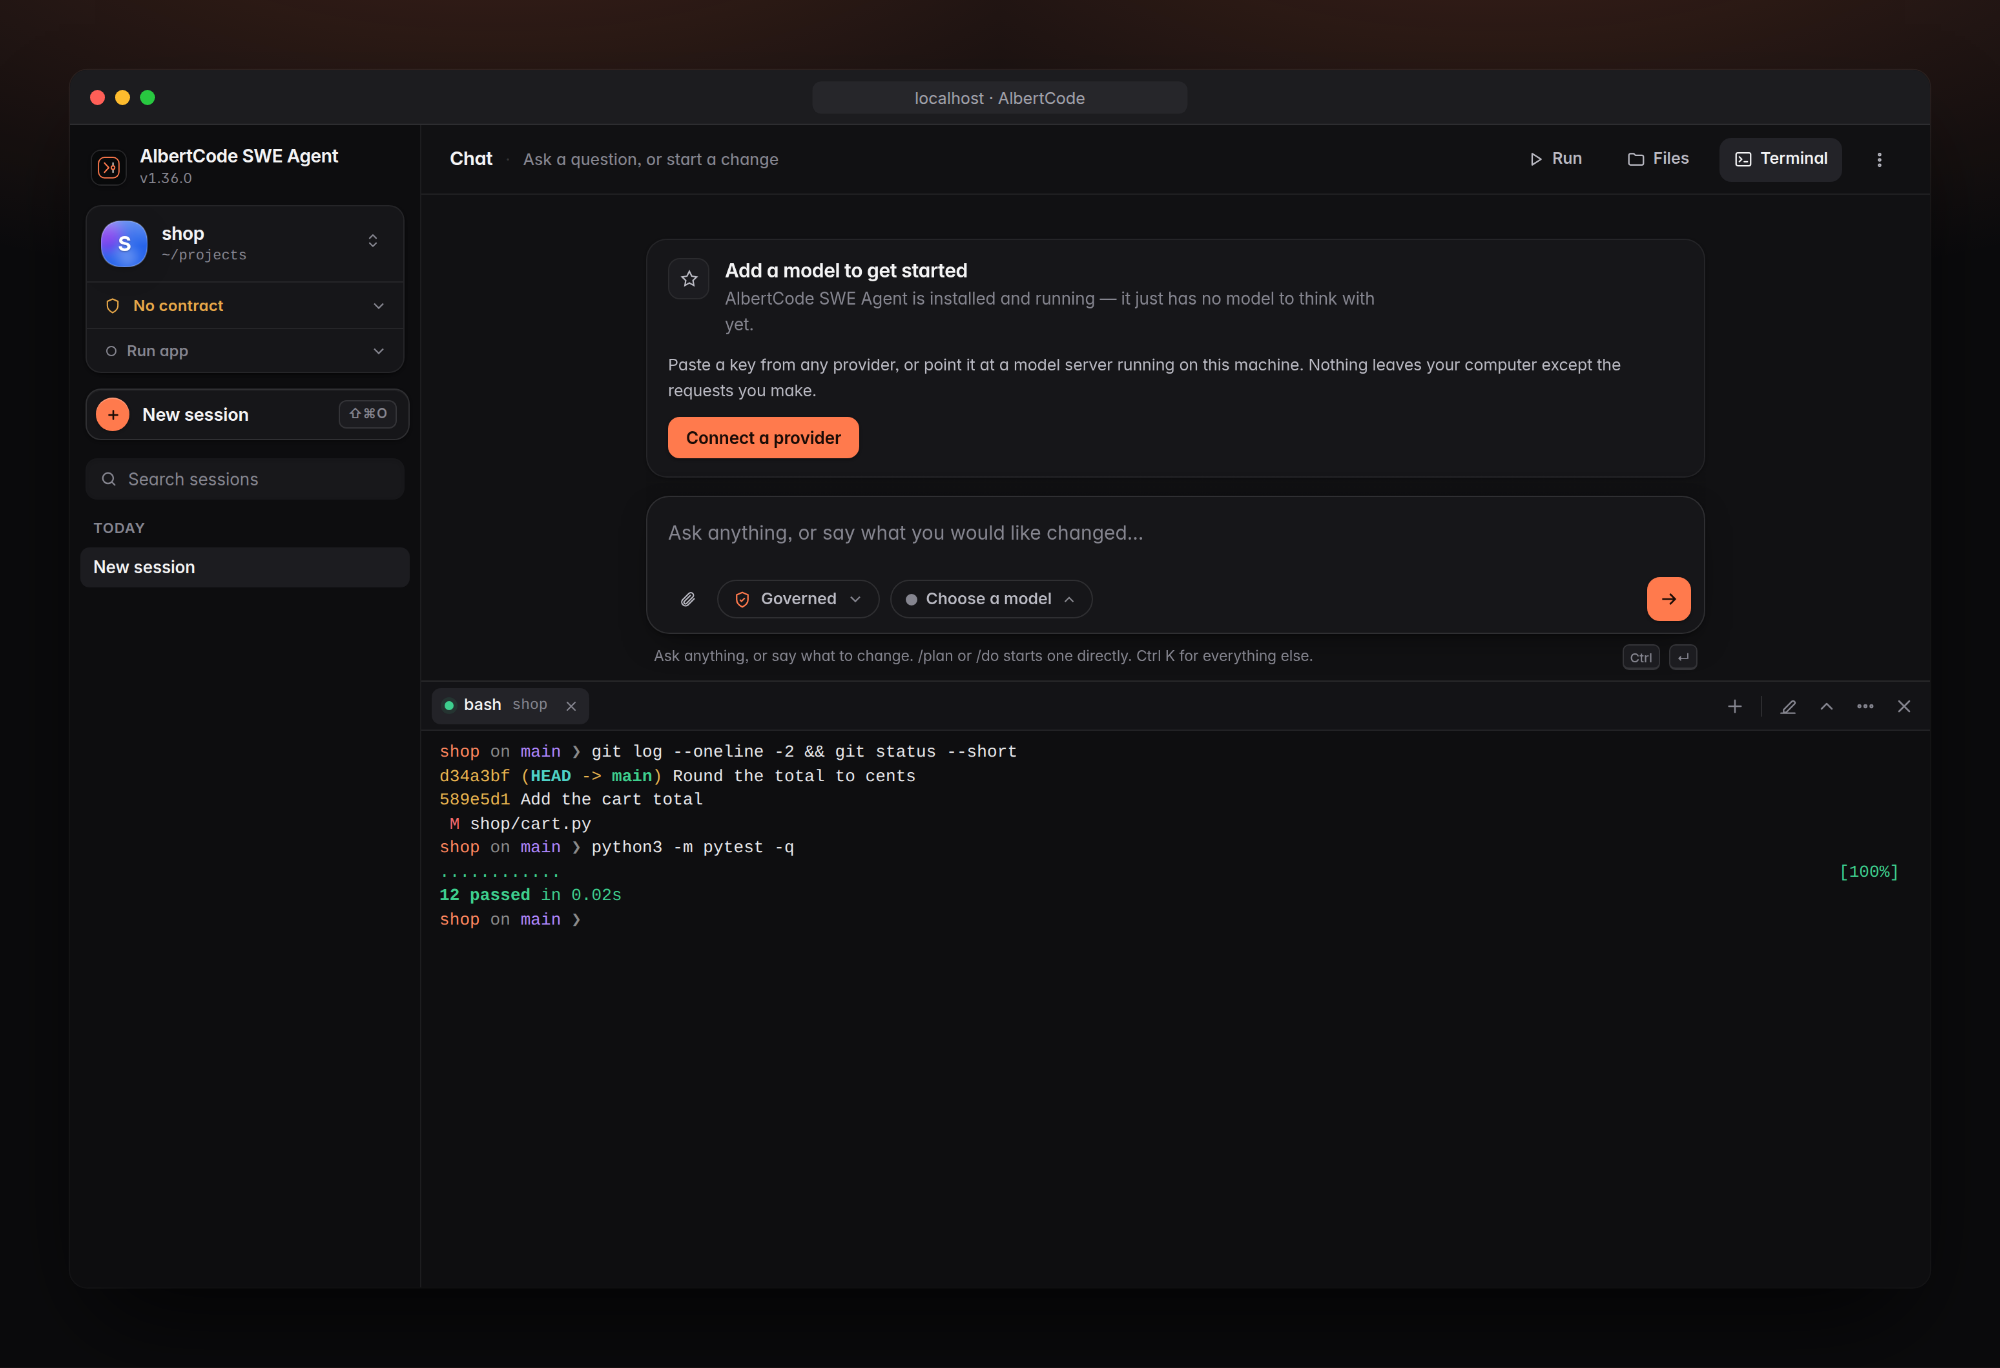
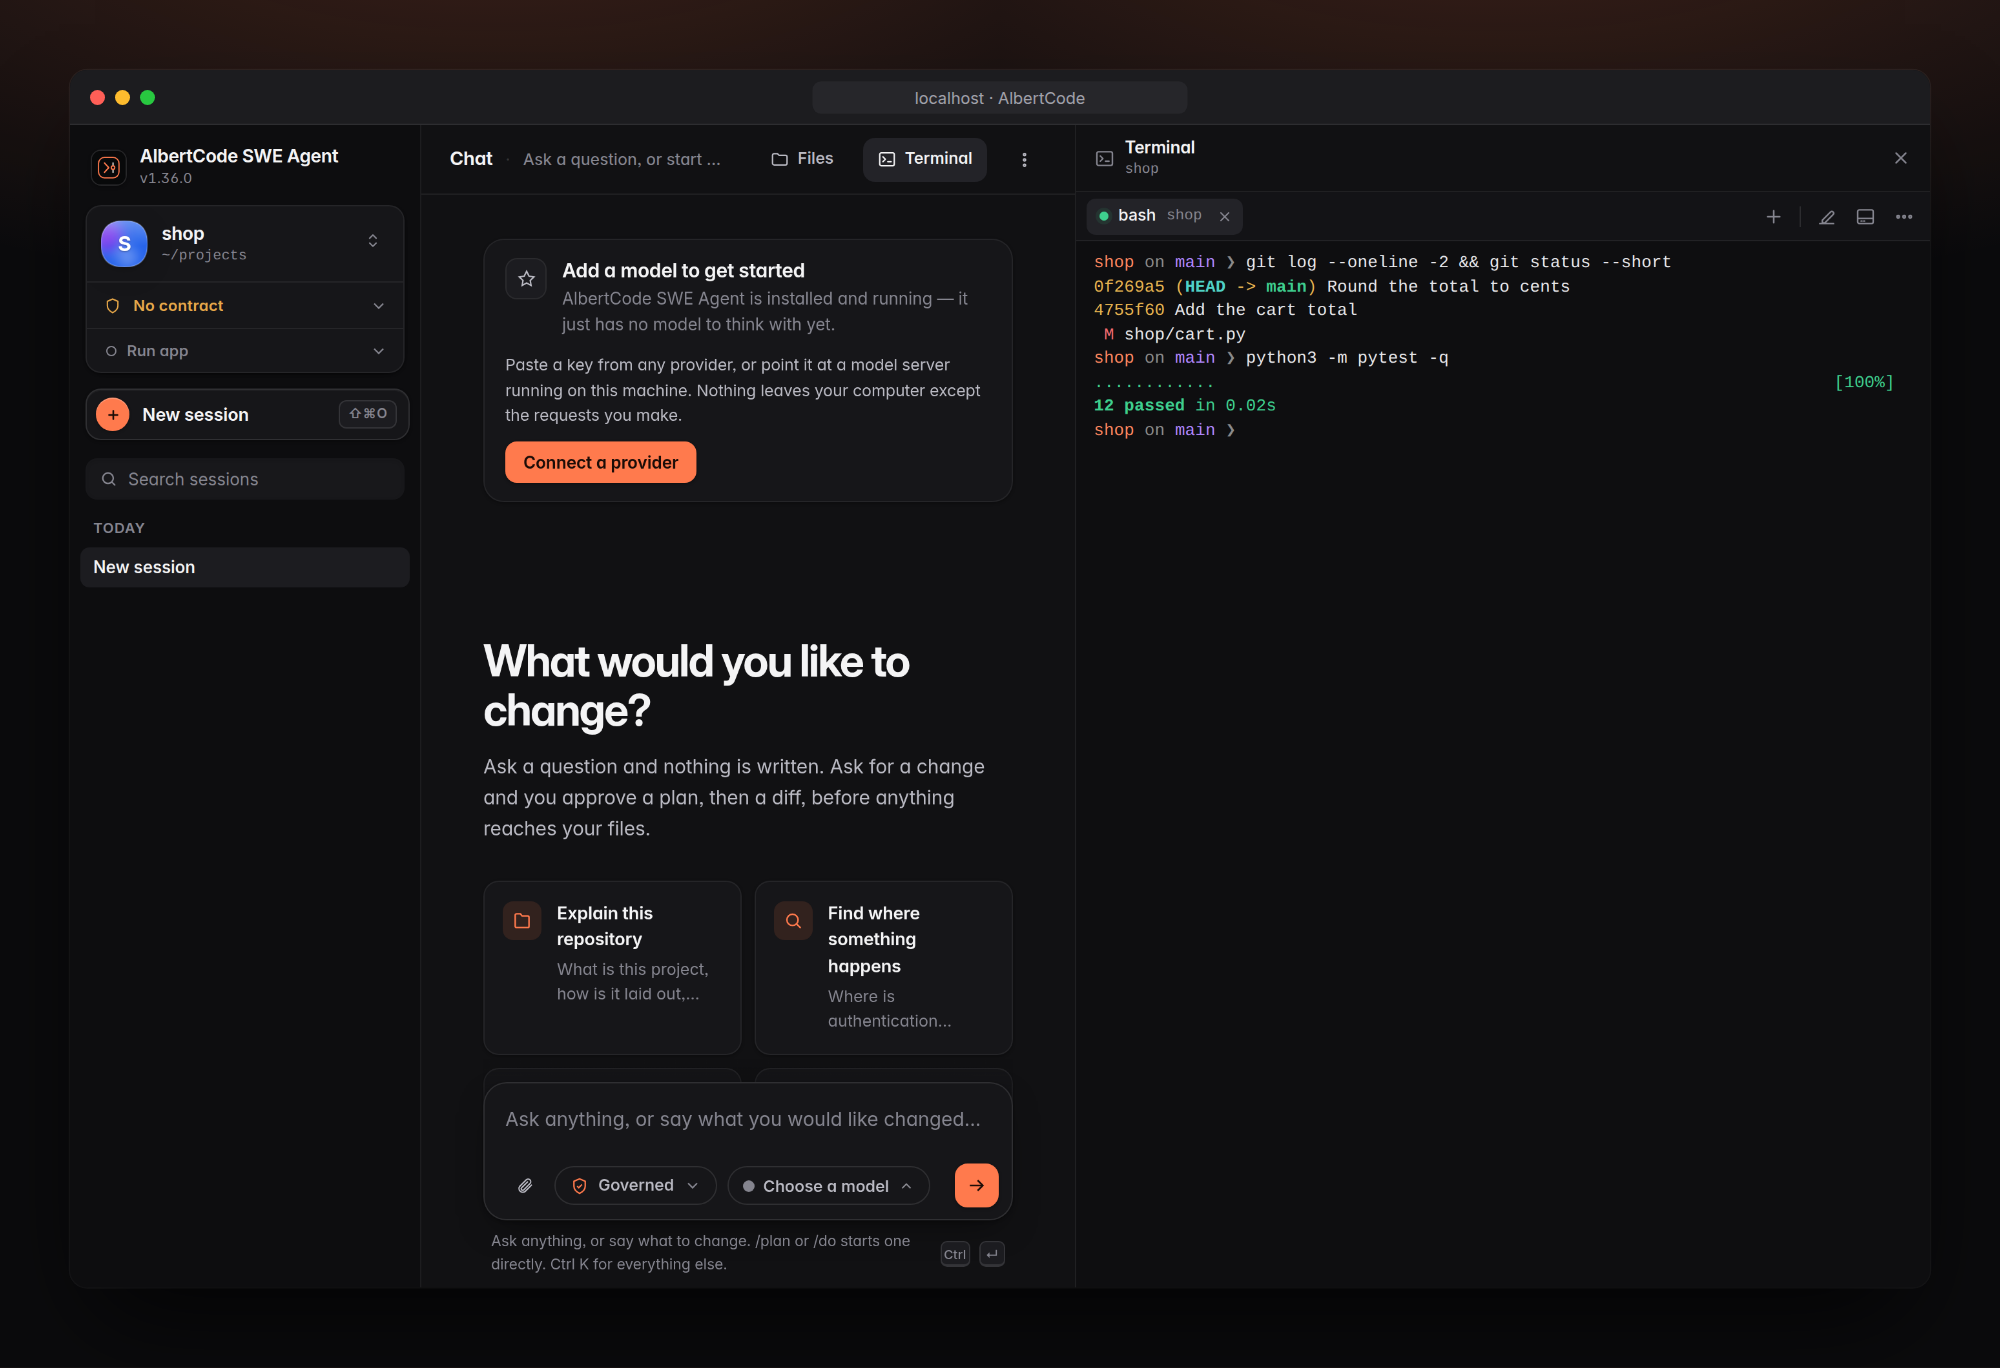
1.37.0: the terminal beside the chat or under it

diff --git a/README.md b/README.md
@@ -104,7 +104,7 @@ editing. It takes a minute or two.
 > When it finishes, **open a new terminal**, then check it:
 >
 > ```bash
-> albertcode --version     # AlbertCode SWE Agent 1.36.0
+> albertcode --version     # AlbertCode SWE Agent 1.37.0
 > albertcode doctor        # which build tools AlbertCode can find
 > ```
 
@@ -498,16 +498,17 @@ something to the Trash, from the toolbar, the ⋯ menu on each row, a right-clic
 
 ### Terminal
 
-**Terminal** in the top bar (or <kbd>Ctrl</kbd> <kbd>`</kbd>) opens a real shell under the chat:
-zsh or bash on macOS and Linux, PowerShell on Windows, in the open repository. Open more as tabs,
-drag the edge to resize, maximise it, or hide it; your shells keep running, even across a page
-reload. Colours, clickable links, full-screen programs, and copy and paste all work as in your own
-terminal, in light and dark.
+**Terminal** in the top bar (or <kbd>Ctrl</kbd> <kbd>`</kbd>) opens a real shell beside the chat,
+like Files: zsh or bash on macOS and Linux, PowerShell on Windows, in the open repository. The
+button in its header docks it under the chat instead, and back; AlbertCode remembers where you
+like it. Open more as tabs, and hide or move it whenever you like: your shells keep running, even
+across a page reload. Colours, clickable links, full-screen programs, and copy and paste all work
+as in your own terminal, in light and dark. Run your project's tests and other checks here.
 
 <picture>
   <source media="(prefers-color-scheme: dark)" srcset="assets/readme/screen-shell-dark.png">
   <source media="(prefers-color-scheme: light)" srcset="assets/readme/screen-shell-light.png">
-  <img src="assets/readme/screen-shell-light.png" alt="The terminal docked under the chat: a bash tab in the shop repository showing git log, git status and a test run with 12 passed." width="100%">
+  <img src="assets/readme/screen-shell-light.png" alt="The terminal beside the chat: a bash tab in the shop repository showing git log, git status and a test run with 12 passed." width="100%">
 </picture>
 
 | Shortcut | What it does |
@@ -523,22 +524,6 @@ terminal, in light and dark.
 > AlbertCode page can connect to it, and a shared AlbertCode server never offers it. Opening and
 > closing a shell are recorded in the evidence ledger; what you type is not. Turn it off at any
 > time from the panel's ⋯ menu.
-
-### Run panel
-
-**Run** in the top bar lists the checks your project already has (tests, type checks, lint,
-build) and runs the one you choose, with its output beside the chat. **Open in Terminal** opens a
-terminal in the repository (your own terminal app while the terminal above is off).
-
-<picture>
-  <source media="(prefers-color-scheme: dark)" srcset="assets/readme/screen-run-dark.png">
-  <source media="(prefers-color-scheme: light)" srcset="assets/readme/screen-run-light.png">
-  <img src="assets/readme/screen-run-light.png" alt="The Run panel beside the chat: the project's test command with a Run button, and its output below, showing 2 passed." width="100%">
-</picture>
-
-> [!NOTE]
-> Only the project's own checks can be run there, and each one follows the same rules as the
-> agent's commands. A check your repository's rules do not allow says so and is not run.
 
 <br>
 

diff --git a/docs/usage.md b/docs/usage.md
@@ -42,16 +42,19 @@ ledger.
 
 ## Terminal
 
-In the browser interface, **Terminal** in the top bar (or Ctrl+`) opens a real shell docked under
-the chat, in the open repository: zsh or bash on macOS and Linux, PowerShell on Windows.
+In the browser interface, **Terminal** in the top bar (or Ctrl+`) opens a real shell in the open
+repository: zsh or bash on macOS and Linux, PowerShell on Windows. It opens beside the chat, in the
+side panel like Files; the button in its header docks it under the chat instead, and back, and
+AlbertCode remembers where you put it. Run your project's tests, builds and other checks here.
 
 - **Tabs.** **+** (or Ctrl+Shift+`) opens another; **Terminal** in the Files panel opens one in the
   selected folder. Close a tab with its ×, a middle-click, or Delete when the tab is focused.
-- **Size.** Drag the panel's top edge, or double-click it (or use the arrow button) to maximise.
+- **Size.** Beside the chat, drag the side panel's edge. Under the chat, drag the panel's top edge,
+  or double-click it (or use the arrow button) to maximise.
 - **Copy and paste.** Select to copy with Ctrl+C (Ctrl+C with nothing selected interrupts, as
   usual), or Ctrl+Shift+C and Ctrl+Shift+V. On a Mac, ⌘C and ⌘V.
-- **It keeps running.** Hide the panel, or reload the page: each shell carries on and comes back
-  with what it wrote. A shell that has ended says so; press Enter to start a new one.
+- **It keeps running.** Hide it, move it, open a file in the side panel, or reload the page: each
+  shell carries on and comes back with what it wrote. A shell that has ended says so; press Enter to start a new one.
 
 The first time, the panel explains what it allows and asks you to turn it on: what you type runs
 on this computer as you, and the limits AlbertCode puts on the agent's commands do not apply to it.
@@ -59,23 +62,6 @@ Only your own AlbertCode page can connect, a shared AlbertCode server never offe
 model key is in its environment. Turning it on or off and opening or closing a shell are recorded
 in the ledger; what you type is not. Turn it off from the panel's ⋯ menu, which closes every shell
 it opened; **Open in your terminal app** there opens your own terminal instead.
-
-## Run panel and terminal
-
-In the browser interface, **Run** in the top bar lists the checks the open repository already has:
-its tests, type checks, lint and build, as AlbertCode finds them, with the ones your repository's
-contract requires first. Click **Run** beside one to run it; its output and how long it took show
-below. One check runs at a time in each repository.
-
-Only those checks can be run from the panel, and each one follows the same rules as the commands
-the agent runs. A check your repository's rules do not allow says so and is not run.
-
-**Open in Terminal**, at the top of the Run panel, opens a terminal in the repository: the one
-above when it is on, and otherwise your own terminal app (Terminal on macOS, Windows Terminal or
-PowerShell on Windows, your desktop's terminal on Linux).
-
-Both are offered only on your own computer, and each run and each terminal opened is recorded in
-AlbertCode's ledger.
 
 ## Approvals
 

diff --git a/CHANGELOG.md b/CHANGELOG.md
@@ -3,19 +3,14 @@
 Release notes for AlbertCode SWE Agent, newest first. Each release's installers and checksums are
 on the [releases page](https://github.com/huynvic/albertcode-swe-agent/releases).
 
-## 1.36.0 — 2026-10-06
+## 1.37.0 — 2026-10-06
 
-- **A terminal inside the browser.** **Terminal** in the top bar (or Ctrl+`) opens a real shell
-  under the chat, in the open repository: zsh or bash on macOS and Linux, PowerShell on Windows.
-  Tabs, resize and maximise, colours, clickable links, copy and paste; shells keep running when
-  the panel is hidden or the page reloads. Off until you turn it on; only your own AlbertCode page
-  can connect; opening and closing a shell are in the evidence ledger.
-
-- **A Run panel in the browser.** **Run** in the top bar lists the checks the repository already
-  has (tests, type checks, lint, build) and runs the one you choose, with its output in the panel.
-  Only those checks can be run there, and each follows the same rules as the agent's own commands.
-- **Open in Terminal.** Opens your own terminal app in the repository from the Run panel, or in the
-  selected folder from the Files panel.
+- **A terminal inside the browser.** **Terminal** in the top bar (or Ctrl+`) opens a real shell in
+  the open repository: zsh or bash on macOS and Linux, PowerShell on Windows. It sits beside the
+  chat like Files, or docked under it; one button moves it, and AlbertCode remembers the choice.
+  Tabs, colours, clickable links, copy and paste; shells keep running when it is hidden, moved or
+  the page reloads. Off until you turn it on; only your own AlbertCode page can connect; opening
+  and closing a shell are in the evidence ledger.
 - **Governed changes.** AlbertCode plans a change, you approve the plan, it builds the change in an
   isolated copy of your repository, runs your own tests, reviews the result, and shows you the diff.
   Your files change only when you accept it.
